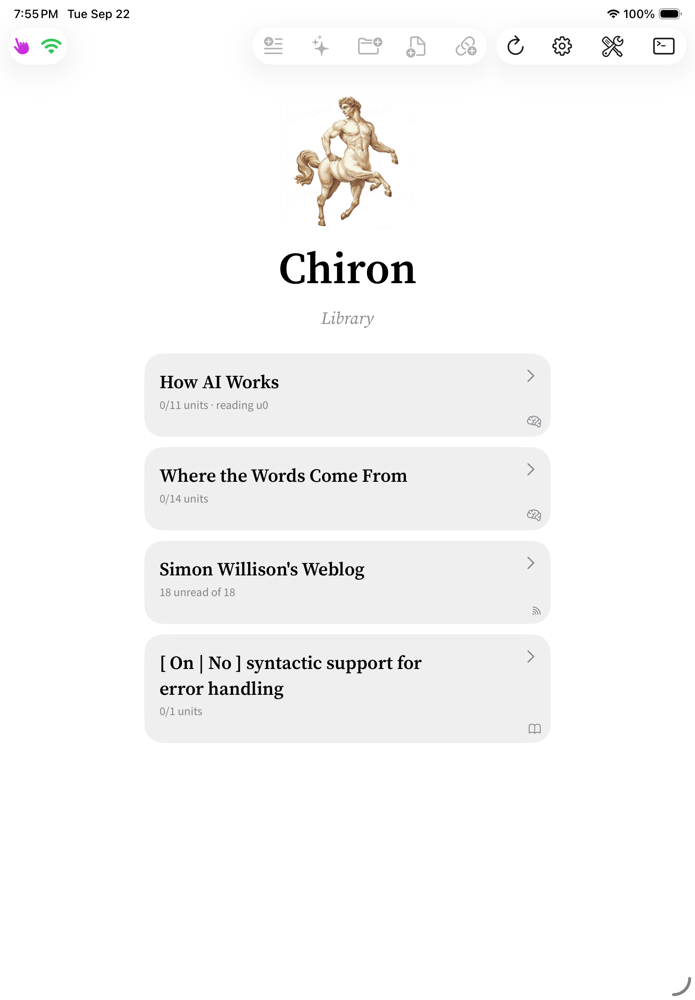
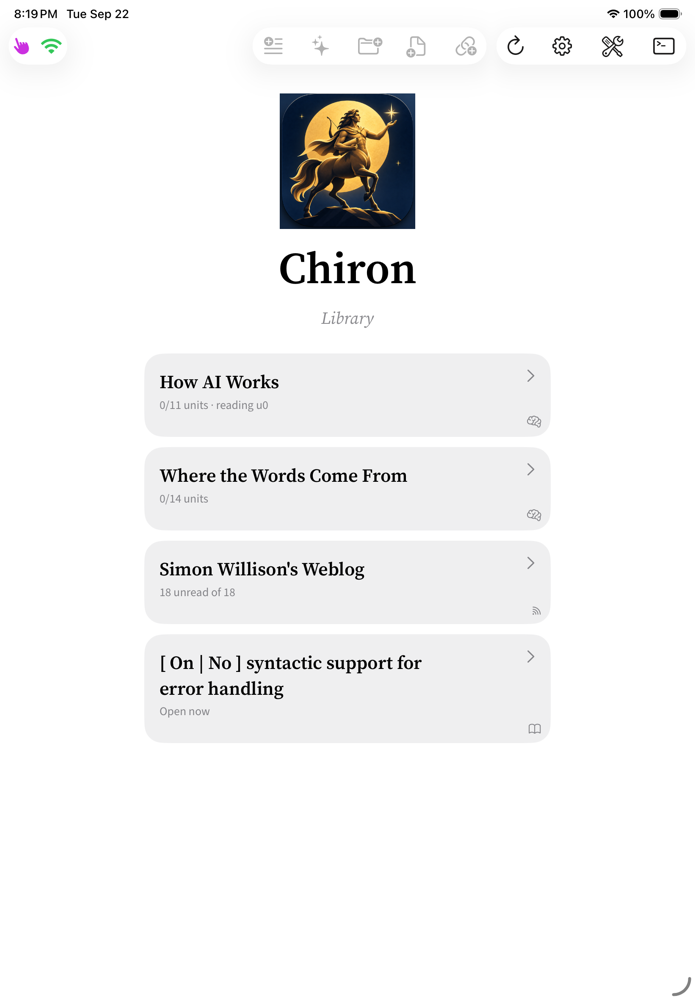
The centaur on the shelf is ours

Changed region(s): [[0.3928, 0.093, 0.6043, 0.248], [0.0302, 0.0, 0.1813, 0.031]]

diff --git a/README.md b/README.md
@@ -278,16 +278,14 @@ equation, the flag that made a model discard its own work.
 
 ## Licence and credits
 
-The code is under the MIT licence; see [LICENSE](LICENSE). That covers the code
-only - the bundled third-party material keeps its own terms, and the artwork is
-not mine to license:
+The code and the artwork are under the MIT licence; see [LICENSE](LICENSE).
+The bundled third-party material keeps its own terms:
 
 - KaTeX, under the MIT licence, in `ipad-app/Chiron/Resources/katex/`.
 - Source Sans and Source Serif, under the SIL Open Font Licence, with its text
   beside them in `assets/fonts/`.
-- **The centaur logo and app icon are a watermarked stock placeholder and are
-  not cleared for redistribution or use.** Replace them before you build
-  anything you intend to ship.
+- The centaur logo and app icon were generated for this project and are
+  covered by the licence above.
 
 Nothing in the repo carries an account of its own: the Apple team comes from
 `CHIRON_TEAM_ID` at generate time, your server's address from the app's
